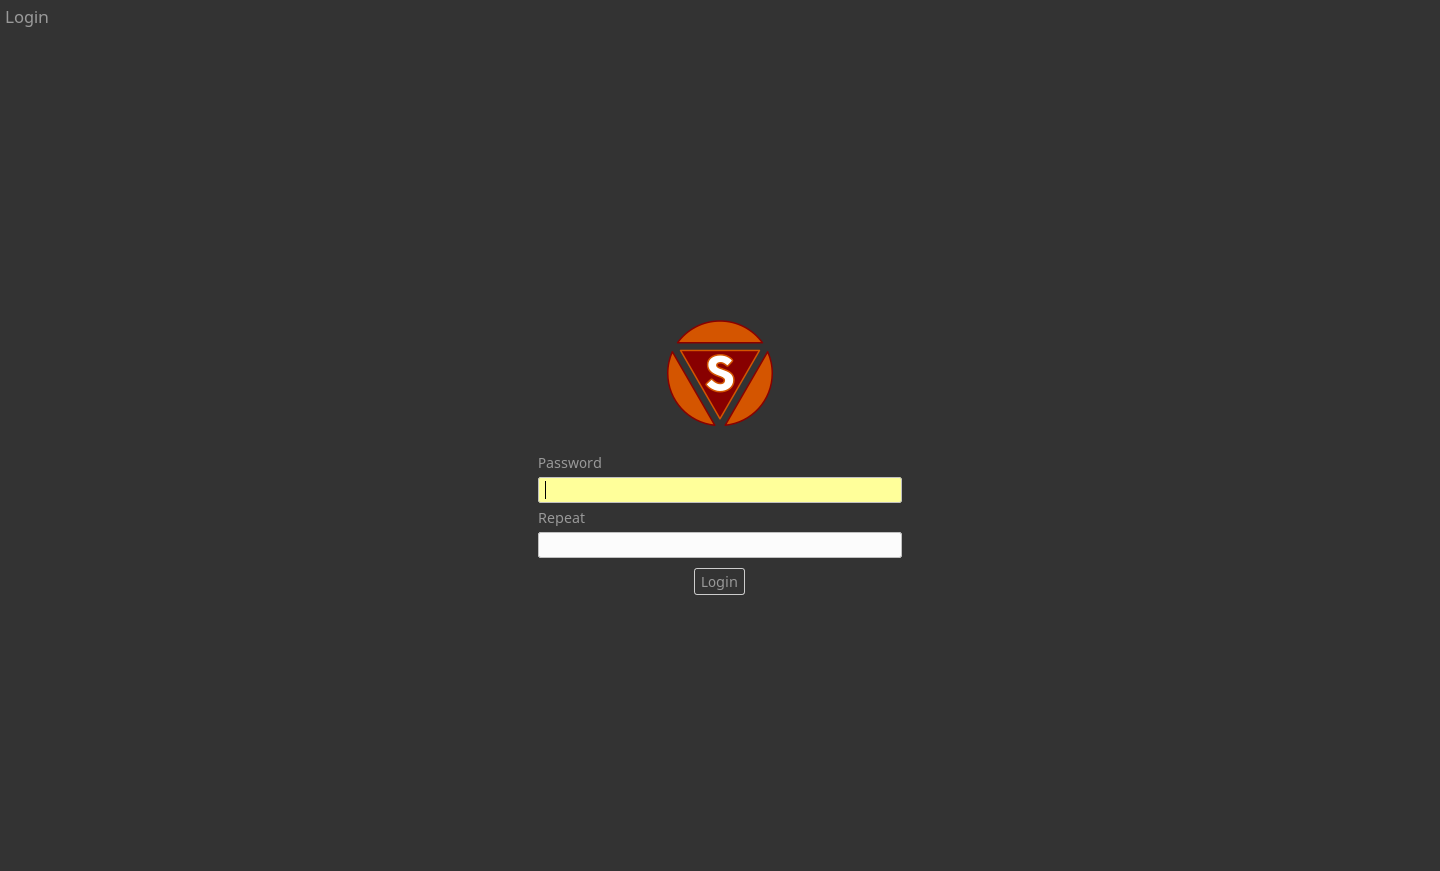
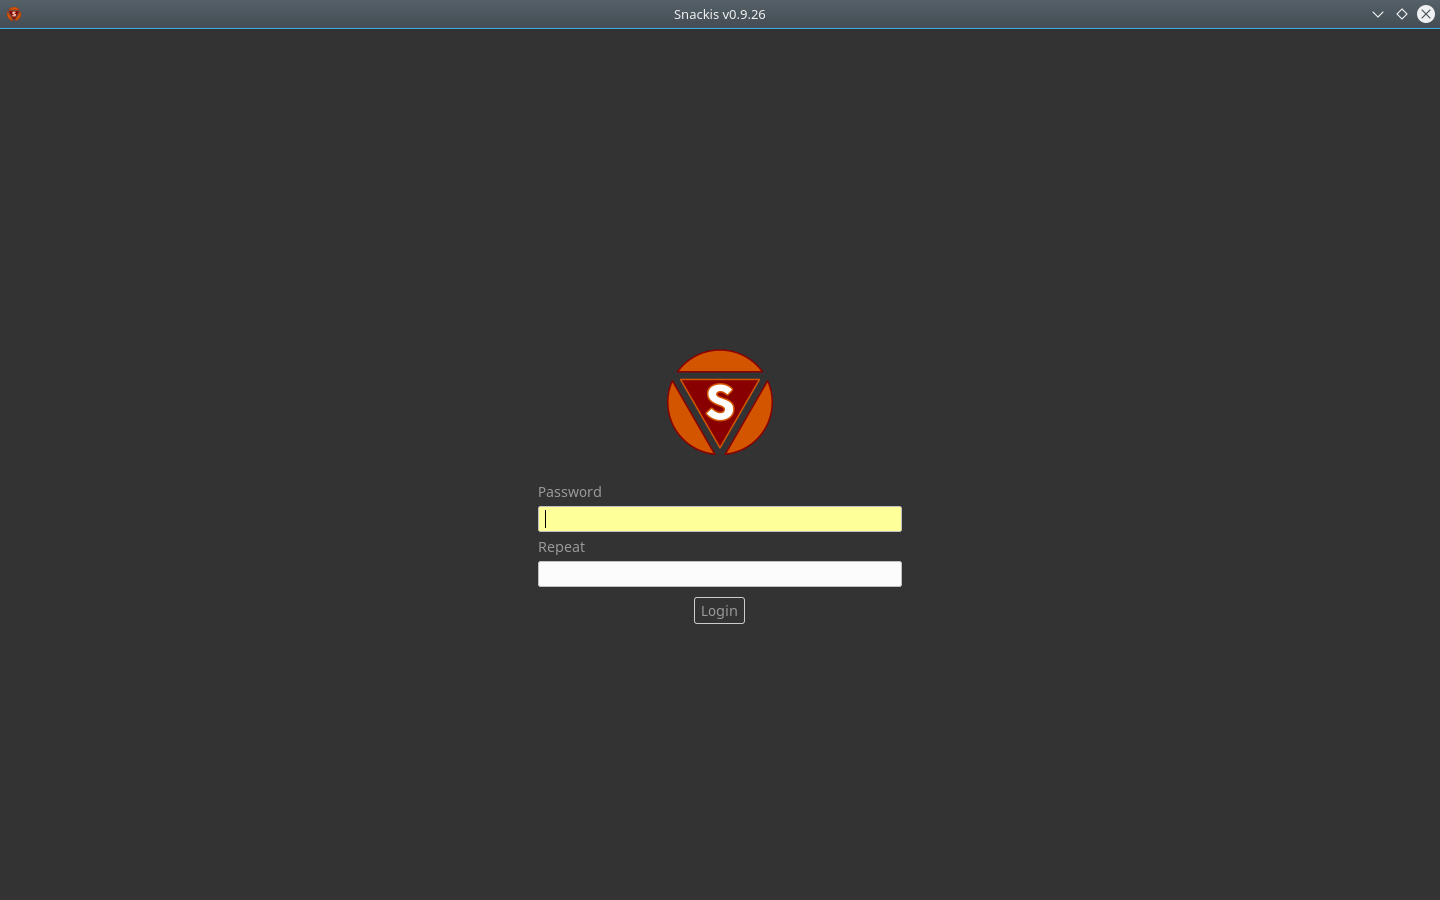
readme

Changed region(s): [[0.375, 0.372, 0.625, 0.682], [0.0, 0.0, 1.0, 0.031]]

diff --git a/src/snackis/gui/login.cpp b/src/snackis/gui/login.cpp
@@ -40,7 +40,7 @@ namespace gui {
   }
   
   Login::Login(Ctx &ctx):
-    View(ctx, "Login"),
+    View(ctx, ""),
     pass(gtk_entry_new()),
     repeat(nullptr)
   {

diff --git a/README.md b/README.md
@@ -45,14 +45,6 @@ Once inside, the first thing you probably want to do is to have a look at the se
 
 ![setup example](images/setup.png?raw=true)
 
-### Locking
-Type ```lock``` and press ```Return``` in the reader to lock Snackis and return to the login screen, the application will keep running in the background until closed.
-
-### Undo
-Snackis logs all changes to an undo-stack, type ```undo``` and press ```Return``` in the reader to view and/or manage the stack.
-
-![undo example](images/undo.png?raw=true)
-
 ### Invites
 Type ```"foo@bar.com" invite``` in the reader and press ```Return``` to create a new invite. Snackis will send an email containing your public encryption-key to the specified address. When an invite is accepted, a reply is sent to inform the inviting peer. The easiest way to see how it works is to send an invite to your own address.
 
@@ -129,9 +121,6 @@ Snackis supports encrypting arbitrary data for specific peers. Type ```encrypt``
 ### Decryption
 Type ```decrypt``` and press ```Return``` in the reader to open the decryption view. Decoding is mandatory for files that were encoded as part of the encryption process.
 
-### Algorithms
-Snackis delegates anything concerning encryption to [libsodium](https://github.com/jedisct1/libsodium). The IETF-variant of ```ChaCha20-Poly1305``` is used to encrypt the master password and database, while ```XSalsa20```/```X25519``` with ```Poly1305 MAC```-authentication is used for everything else. The master password is hashed using ```Scrypt```, and encrypted using the hash as key for future validation.
-
 ### Scripts
 Snackis includes a custom scripting language called [Snabel](https://github.com/andreas-gone-wild/snackis/blob/master/snabel.md). Type ```script-new``` and press ```Return``` in the reader to open the script view. Snackis reader is also backed by Snabel, which allows convenient evaluation of arbitrary expressions at any time.
 
@@ -139,6 +128,17 @@ Snackis includes a custom scripting language called [Snabel](https://github.com/
 
 #### Searching
 Type ```script-search``` in the reader and press ```Return``` to search tasks. Scripts are sorted by name and time of creation.  A short-cut is provided to find scripts by id, execute ```"#" script``` to open the specified script, any unique part of the id will do.
+
+### Undo
+Snackis logs all changes to an undo-stack, type ```undo``` and press ```Return``` in the reader to view and/or manage the stack.
+
+![undo example](images/undo.png?raw=true)
+
+### Locking
+Type ```lock``` and press ```Return``` in the reader to lock Snackis and return to the login screen, the application will keep running in the background until closed.
+
+### Algorithms
+Snackis delegates anything concerning encryption to [libsodium](https://github.com/jedisct1/libsodium). The IETF-variant of ```ChaCha20-Poly1305``` is used to encrypt the master password and database, while ```XSalsa20```/```X25519``` with ```Poly1305 MAC```-authentication is used for everything else. The master password is hashed using ```Scrypt```, and encrypted using the hash as key for future validation.
 
 ### License
 Snackis is licensed under the GNU General Public License Version 3.
